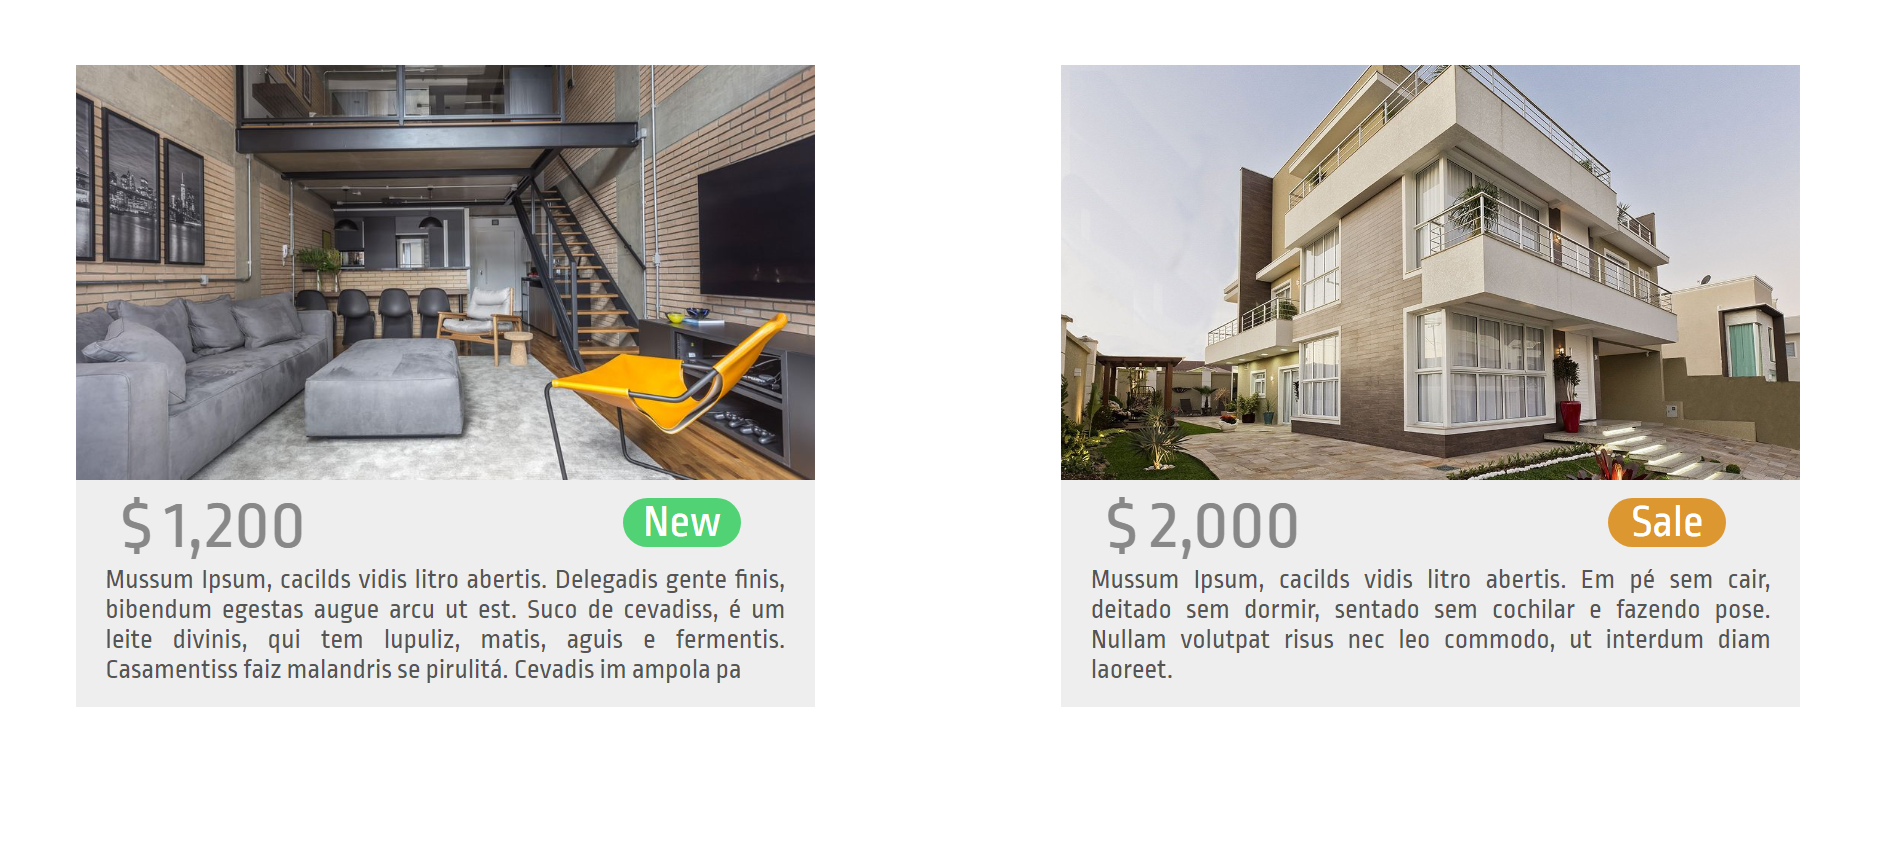
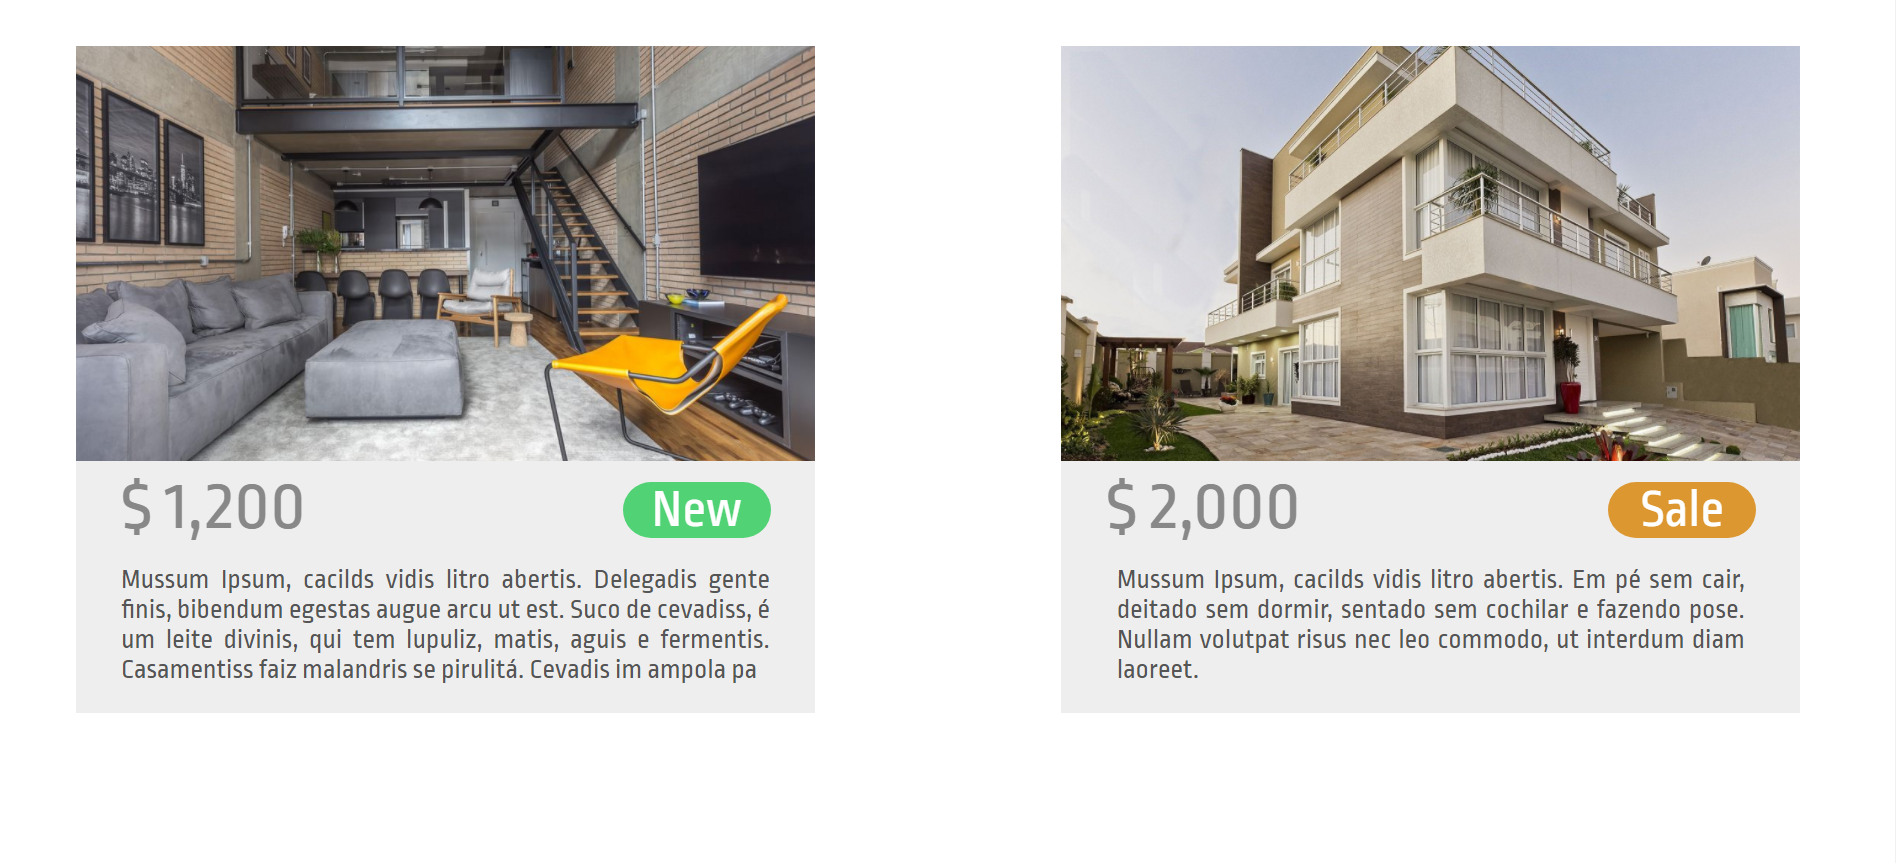
small change in the secont print

diff --git a/style.css b/style.css
@@ -127,23 +127,24 @@ h2 {
 }
 
 .texto2 {
-  margin-top: 1.5%;
+  margin-top: 2%;
   background-color: #51D275;
   color: white;
   text-align: center;
-  width: 16%;
+  width: 20%;
   height: 20%;
-  font-size: 190% ;
-  margin-right: 10%;
+  font-size: 220% ;
+  margin-right: 6%;
   border-radius: 20.5vh;
 }
 
 .texto3 {
   color: #555555;
   text-align: justify;
-  margin-left: 4%;
-  margin-right: 4%;
-  margin-bottom: 3%;
+  margin-left: 6.1%;
+  margin-right: 6.1%;
+  margin-bottom: 4%;
+  margin-top: 2.5%;
 }
 
 .caixa2 {
@@ -171,23 +172,24 @@ h2 {
 }
 
 .texto5 {
-  margin-top: 1.5%;
+  margin-top: 2%;
+  background-color: #DC9730;;
   color: white;
-  background-color: #DC9730;
   text-align: center;
-  width: 16%;
+  width: 20%;
   height: 20%;
-  font-size: 190% ;
-  margin-right: 10%;
+  font-size: 220% ;
+  margin-right: 6%;
   border-radius: 20.5vh;
 }
 
 .texto6 {
   color: #555555;
   text-align: justify;
-  margin-left: 4%;
-  margin-right: 4%;
-  margin-bottom: 3%;
+  margin-left: 7.5%;
+  margin-right: 7.5%;
+  margin-bottom: 4%;
+  margin-top: 2.5%;
 }
 
 .texto7 {
